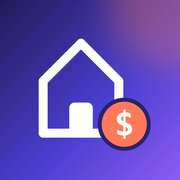
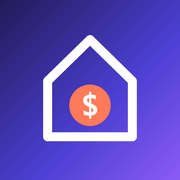
Icono centrado (v2)

diff --git a/gastos-casa/index.html b/gastos-casa/index.html
@@ -6,8 +6,8 @@
 <title>Gastos de casa</title>
 <!-- Ícono y nombre al anclar la página a la pantalla de inicio del celular -->
 <link rel="manifest" id="mf" href="manifest.webmanifest">
-<link rel="icon" type="image/png" sizes="32x32" href="/gastos-casa/favicon-32.png?v=1">
-<link rel="apple-touch-icon" href="/gastos-casa/apple-touch-icon.png?v=1">
+<link rel="icon" type="image/png" sizes="32x32" href="/gastos-casa/favicon-32.png?v=2">
+<link rel="apple-touch-icon" href="/gastos-casa/apple-touch-icon.png?v=2">
 <meta name="apple-mobile-web-app-capable" content="yes">
 <meta name="mobile-web-app-capable" content="yes">
 <meta name="apple-mobile-web-app-title" content="Gastos">
@@ -17,7 +17,7 @@
 <meta property="og:title" content="Gastos de casa">
 <meta property="og:description" content="Cuánto se gasta en casa y en qué">
 <meta property="og:url" content="https://baredesbaires.github.io/gastos-casa/">
-<meta property="og:image" content="https://baredesbaires.github.io/gastos-casa/icono-512.png?v=1">
+<meta property="og:image" content="https://baredesbaires.github.io/gastos-casa/icono-512.png?v=2">
 <meta property="og:image:width" content="512">
 <meta property="og:image:height" content="512">
 <meta name="theme-color" content="#f5f3f8">
@@ -39,8 +39,8 @@ if (f) {
     name: "Gastos de casa", short_name: "Gastos", start_url: raiz + "?f=" + f, scope: raiz,
     display: "standalone", background_color: "#f5f3f8", theme_color: "#f5f3f8",
     icons: [
-      { src: raiz + "icono-192.png", sizes: "192x192", type: "image/png", purpose: "any maskable" },
-      { src: raiz + "icono-512.png", sizes: "512x512", type: "image/png", purpose: "any maskable" }
+      { src: raiz + "icono-192.png?v=2", sizes: "192x192", type: "image/png", purpose: "any maskable" },
+      { src: raiz + "icono-512.png?v=2", sizes: "512x512", type: "image/png", purpose: "any maskable" }
     ]
   };
   document.getElementById("mf").href = "data:application/manifest+json," + encodeURIComponent(JSON.stringify(m));
